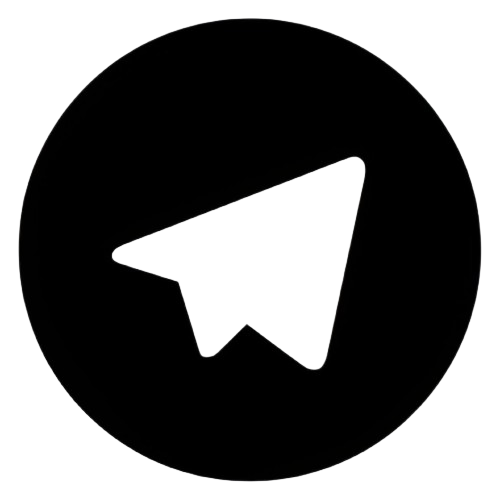
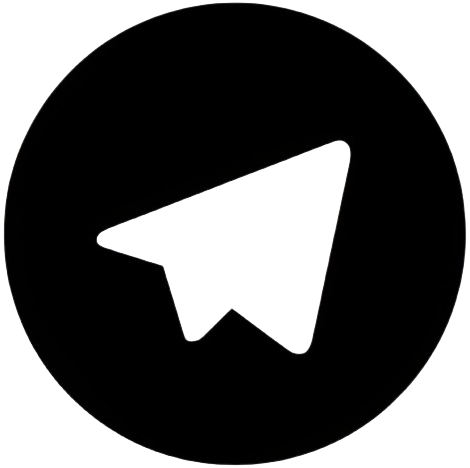
fixed button link and added fdcolumn on projects

diff --git a/index.html b/index.html
@@ -80,7 +80,7 @@
     class="icon" onclick="location.href='https://www.linkedin.com/in/ahmad-sayeed-baksh/'">
 
     <img src="./assets/upwork.png" alt="My Upwork profile"
-    class="icon" onclick="location.href='https://www.instagram.com/ahmadsayeedbaksh/'">
+    class="icon" onclick="location.href='https://www.upwork.com/freelancers/~016f26535bf780a7c5'">
 
     <img src="./assets/github.png" alt="My Github profile"
     class="icon" onclick="location.href='https://github.com/BVKSH0'">
@@ -289,7 +289,7 @@
     <div id="socials-container">
 
       <img src="./assets/telegram.png" alt="My Telegram profile"
-      class="icon" onclick="location.href='https://t.me/AhmadSayeedBaksh'">
+      class="icon ticon" onclick="location.href='https://t.me/AhmadSayeedBaksh'">
   
       <img src="./assets/facebook.png" alt="My Facebook profile"
       class="icon" onclick="location.href='https://www.facebook.com/ahmadsayeedbakshofficial/'">

diff --git a/mediaquarries.css b/mediaquarries.css
@@ -71,6 +71,9 @@
   .btn-container {
     flex-wrap: wrap;
   }
+  .about-containers{
+    flex-direction: column;
+  }
   .contact-info-container {
     margin: 0;
   }

diff --git a/style.css b/style.css
@@ -475,6 +475,10 @@ article .icon {
   height: 2.5rem;
 }
 
+.ticon {
+  height: 2.1rem;
+}
+
 /* FOOTER SECTION */
 
 footer {
